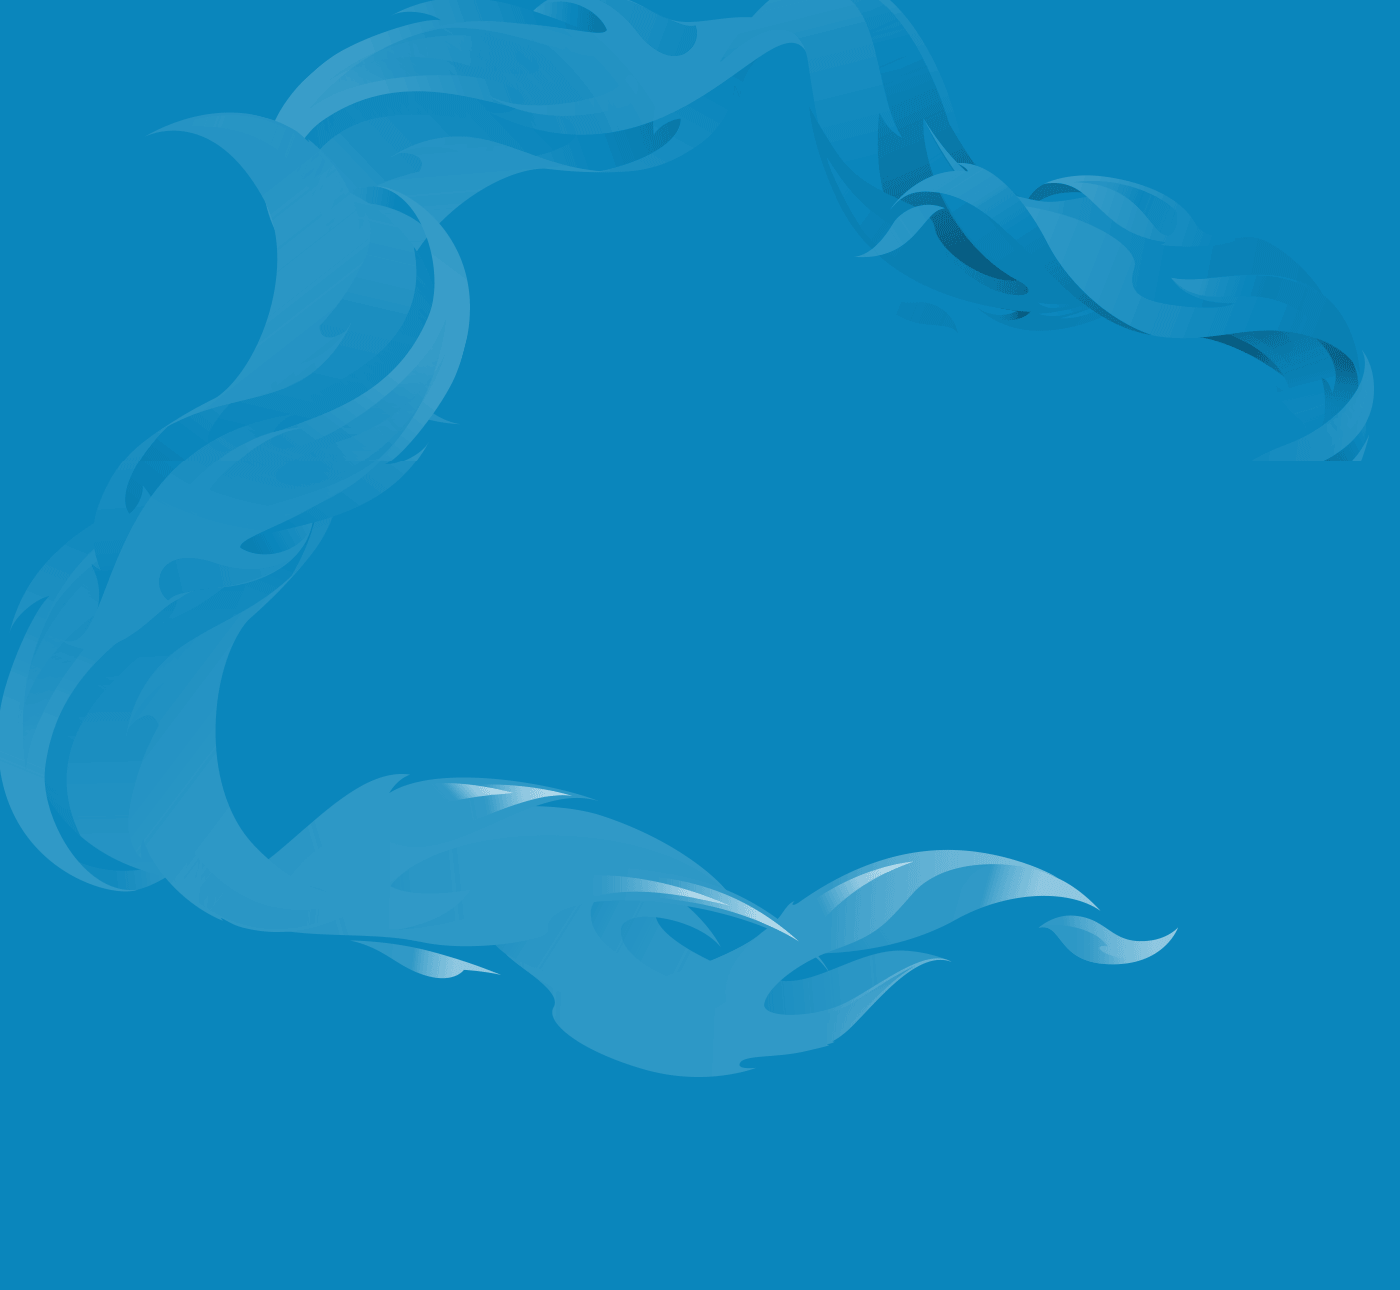
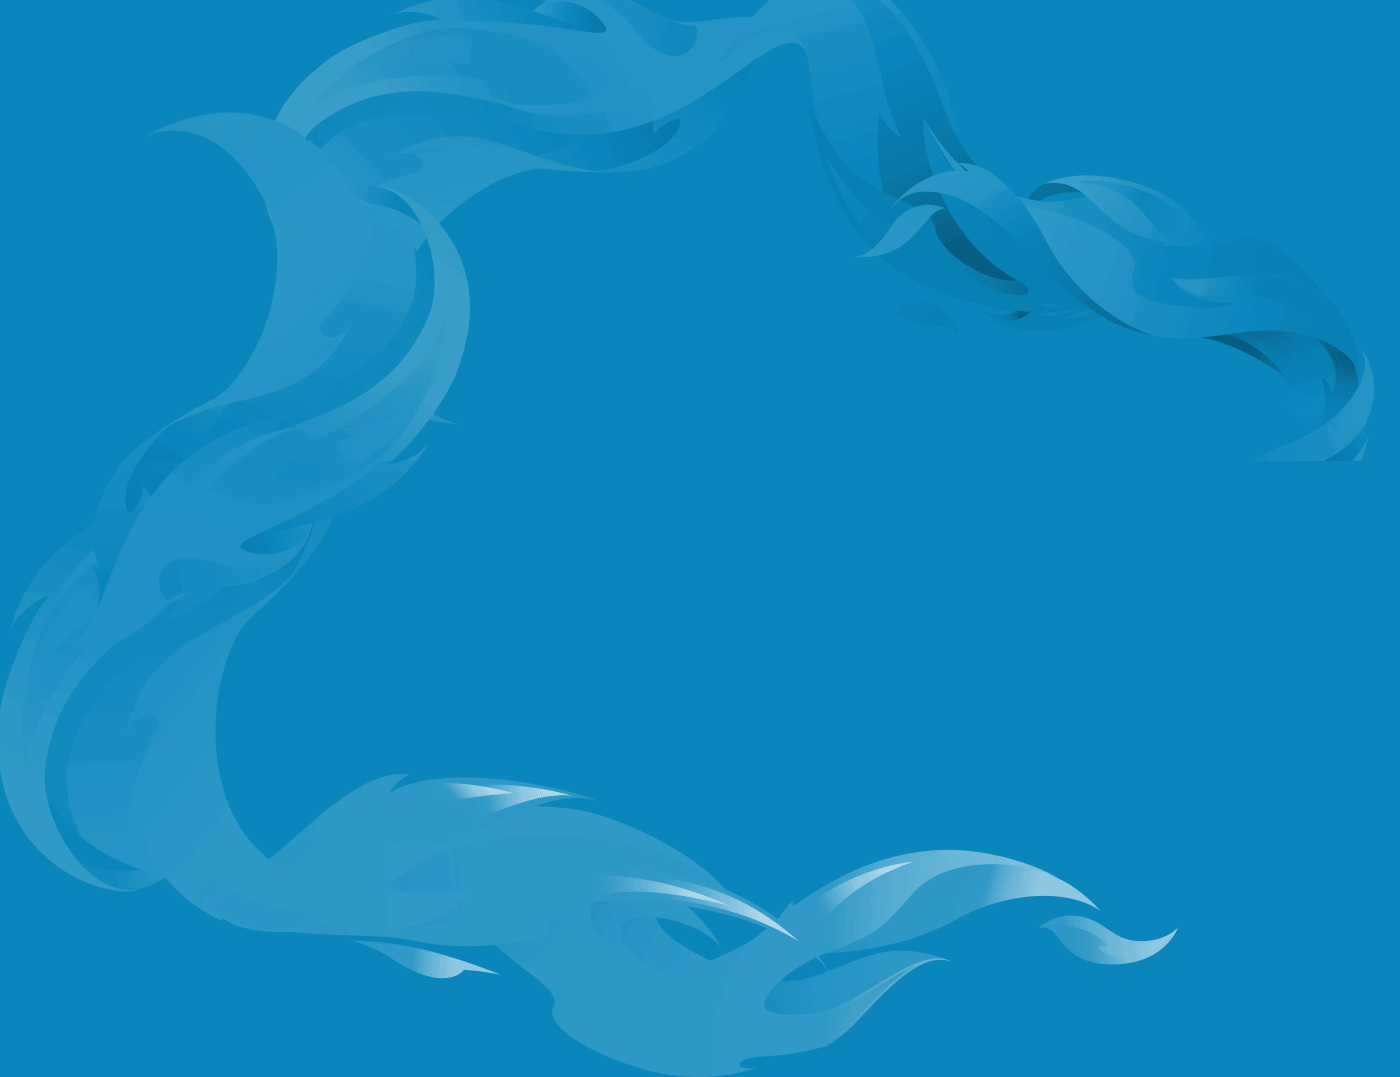
Reduce the background image size

diff --git a/css/style.css b/css/style.css
@@ -34,7 +34,7 @@
 }
 body {
   color: #FFFFFF;
-  background: #013356 url('../images/full-bg-wo-globe.png') no-repeat scroll center top;
+  background: #013356 url('../images/full-bg-wo-globe.png') no-repeat scroll center 390px;
   overflow-x: hidden;
   width: 100%;
   margin: 0;
